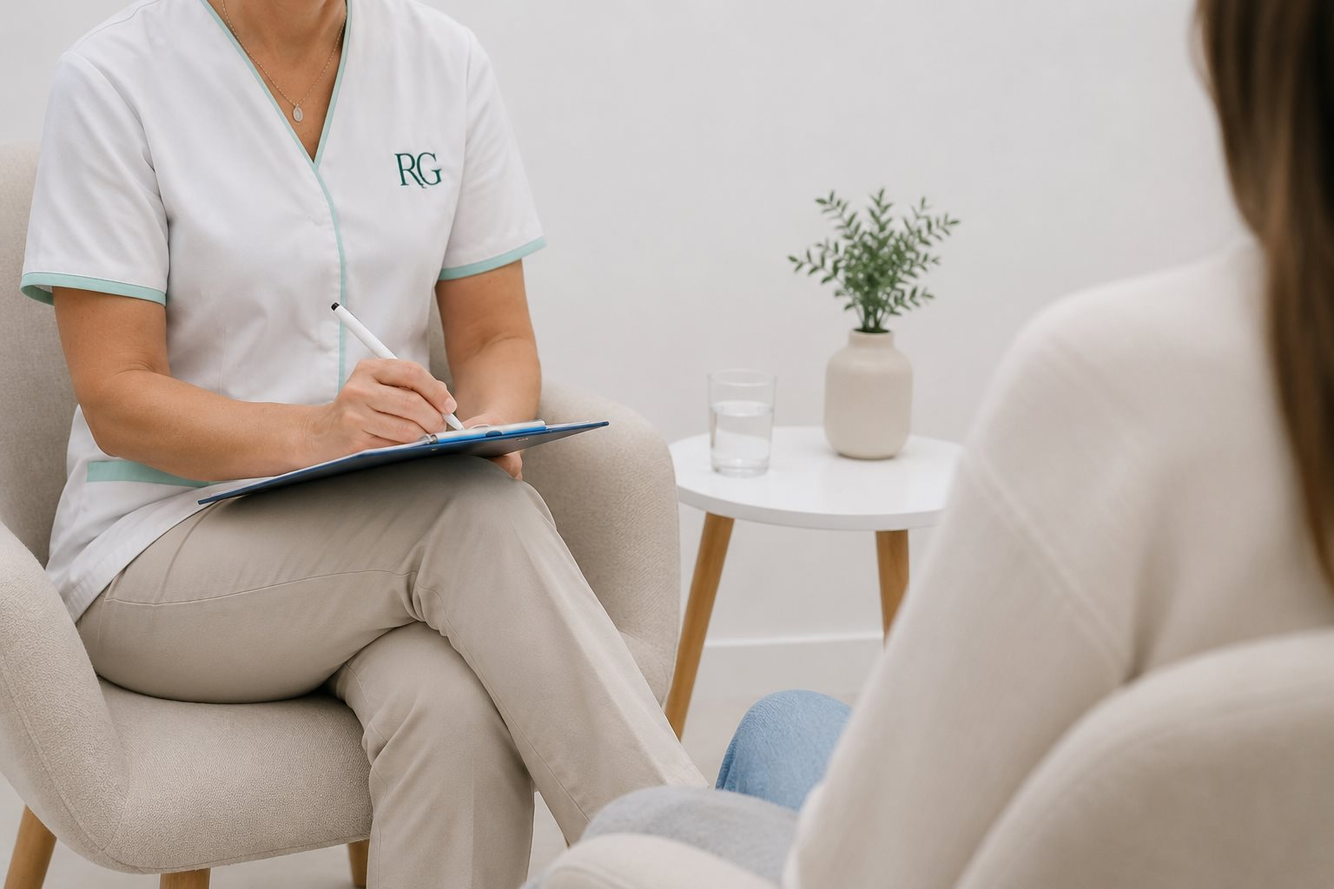
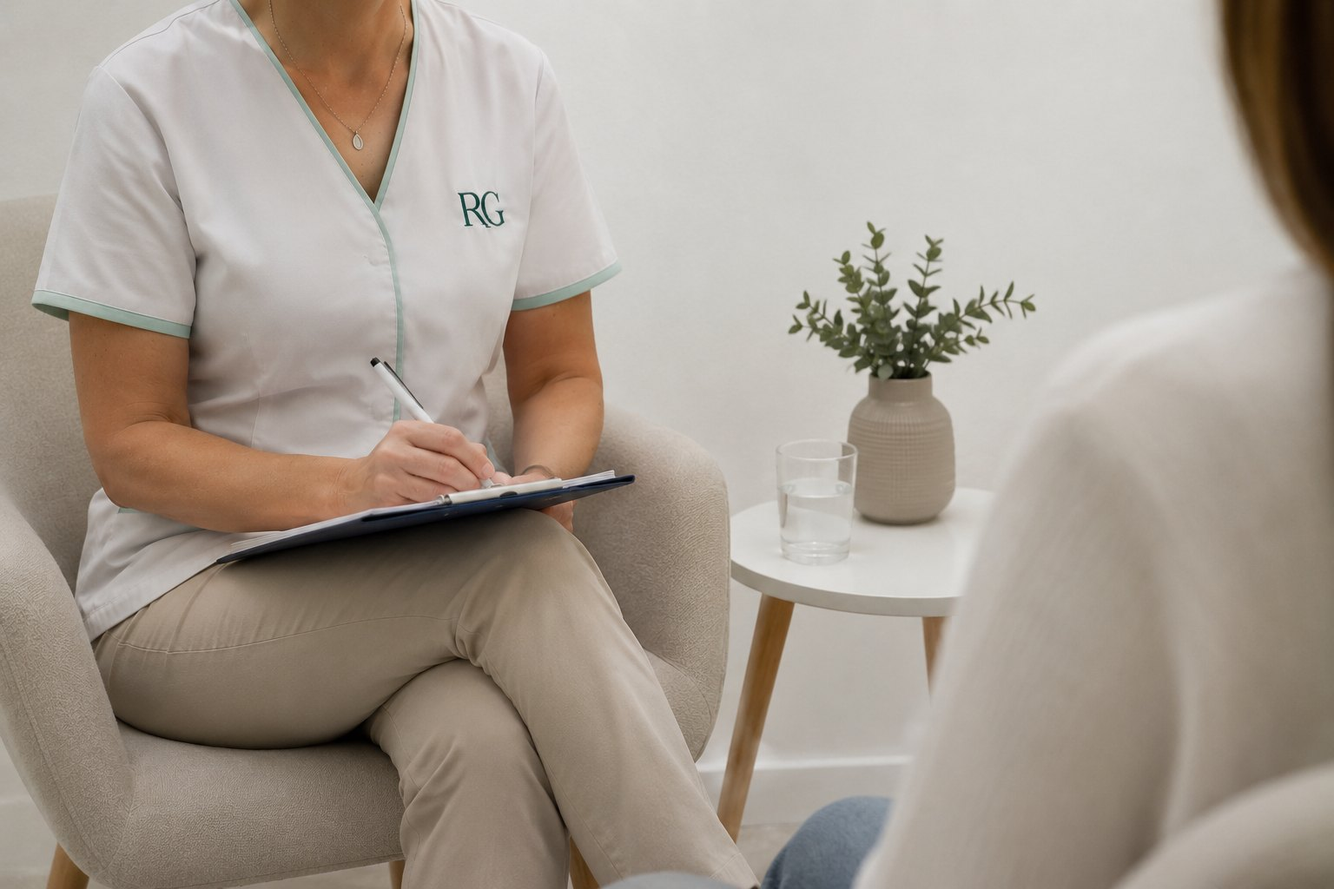
feat(home): 5 profissionais na horizontal na EquipaIntro + hero a preencher a coluna
EquipaIntro: passa a mostrar os 5 membros (antes cortava aos 4) numa unica
linha. Deixa de usar .rg-team-grid, cujas regras !important forcavam 3
colunas abaixo de 1200px e partiam a linha, e ganha grelha propria
(.rg-equipa-home-grid) com container mais largo (1600px). Abaixo de 1150px
mantem a horizontal com scroll lateral e snap, em vez de encolher as
colunas ate ficarem ilegiveis.

Hero: em ecras >=1700px a seccao passa a ter altura propria em vez de a
herdar do aspect-ratio da foto, com degrade de fusao na margem esquerda.

Inclui cache-bust do data.jsx nos HTML e a foto da psicologia actualizada.

diff --git a/website-clinica-rita-guerreiro/project/src/home.jsx b/website-clinica-rita-guerreiro/project/src/home.jsx
@@ -11,7 +11,7 @@ function Hero() {
     <section className="rg-hero-home" style={{ position: 'relative', display: 'flex', alignItems: 'stretch', background: RG.cream, overflow: 'hidden' }}>
 
       {/* Conteúdo principal — coluna própria, nunca sobreposta à foto */}
-      <div className="rg-hero-home-content" style={{ position: 'relative', zIndex: 2, flex: '0 1 560px', minWidth: 0, display: 'flex', alignItems: 'center', background: RG.cream, padding: '128px 44px 72px 64px', boxSizing: 'border-box' }}>
+      <div className="rg-hero-home-content" style={{ position: 'relative', zIndex: 2, flex: '0 1 520px', minWidth: 0, display: 'flex', alignItems: 'center', background: RG.cream, padding: '128px 40px 72px 64px', boxSizing: 'border-box' }}>
         <div style={{ width: '100%', maxWidth: 520, position: 'relative', paddingLeft: 28, boxSizing: 'border-box' }}>
           {/* Linha vertical decorativa */}
           <div aria-hidden="true" style={{
@@ -99,16 +99,23 @@ function Hero() {
       </div>
 
       {/* Foto — coluna própria à direita, nunca por baixo do texto/CTAs.
-          O aspect-ratio nativo da foto (2000/1215) define a altura da secção, por isso
-          a imagem preenche a coluna sem barras de fundo e sem cortar a equipa. */}
-      <div className="rg-hero-home-photo" style={{ position: 'relative', flex: '1 1 0%', minWidth: 0, aspectRatio: '2000 / 1215', background: RG.cream, overflow: 'hidden' }}>
+          Em desktop split a altura vem do min-height da secção (ver mobile.css @1700px):
+          a foto preenche a coluna toda até às bordas, sem faixas de fundo em cima,
+          em baixo ou à direita. O corte de cover é vertical e mínimo, por isso a
+          equipa mantém-se enquadrada. */}
+      <div className="rg-hero-home-photo" style={{ position: 'relative', flex: '1 1 0%', minWidth: 0, background: RG.cream, overflow: 'hidden' }}>
         <img
           src="assets/fotos/equipa-capa.jpg"
           alt="Equipa da Clínica Rita Guerreiro em Loulé"
           className="rg-ken-burns"
-          style={{ width: '100%', height: '100%', objectFit: 'cover', objectPosition: 'center center', display: 'block' }}
+          style={{ width: '100%', height: '100%', objectFit: 'cover', objectPosition: 'center 30%', display: 'block' }}
           loading="eager" decoding="async"
         />
+        {/* Degradê de fusão — funde só a margem esquerda da foto no creme da coluna
+            de texto, para não haver um corte reto entre as duas colunas, mais uma
+            vinheta subtil em baixo (nunca branca, que criava faixa visível).
+            Só em desktop split (≥1700px); escondido quando o hero empilha. */}
+        <div className="rg-hero-home-fade" aria-hidden="true" style={{ position: 'absolute', inset: 0, pointerEvents: 'none', zIndex: 1 }} />
         {/* Eyebrow pill — visível só em mobile via CSS */}
         <span className="rg-hero-home-eyebrow" aria-hidden="true">Centro de Terapias & Bem-Estar</span>
       </div>
@@ -122,10 +129,12 @@ function Hero() {
 // ────────────────────────────────────────────────────────────────────────────
 function EquipaIntro() {
   const { t } = useLang();
-  const members = (t('sobre.team_members') || []).slice(0, 4);
+  const members = t('sobre.team_members') || [];
   return (
     <Section bg={RG.tealWash} pad="lg">
-      <Container>
+      {/* Container mais largo que o resto do site — os 5 cartões têm de caber
+          todos na mesma linha sem ficarem estreitos demais */}
+      <Container maxWidth={1600}>
         <Reveal>
           <div style={{ textAlign: 'center', maxWidth: 620, margin: '0 auto' }}>
             <Eyebrow style={{ marginBottom: 14 }}>{t('equipa_intro.eyebrow')}</Eyebrow>
@@ -136,7 +145,9 @@ function EquipaIntro() {
           </div>
         </Reveal>
 
-        <div className="rg-team-grid" style={{ display: 'grid', gridTemplateColumns: 'repeat(4, minmax(0, 1fr))', gap: 22, marginTop: 56 }}>
+        {/* Grelha própria (não rg-team-grid): a do /sobre quebra para 3/2/1
+            colunas e aqui os 5 têm de ficar sempre na horizontal */}
+        <div className="rg-equipa-home-grid" style={{ marginTop: 56 }}>
           {members.map((m, i) => (
             <Reveal key={i} delay={i * 90} y={36}>
               <a href="/sobre" className="rg-team-card" style={{
@@ -667,90 +678,90 @@ function MeetRita() {
 }
 
 // ────────────────────────────────────────────────────────────────────────────
-// TESTIMONIALS — 1 destaque grande + 2 pequenos
+// TESTIMONIALS — painéis verticais sobre foto de tratamento. Cada painel abre
+// em hover/foco e revela a avaliação; o último painel é a porta para o Google.
 // ────────────────────────────────────────────────────────────────────────────
+const GOOGLE_REVIEWS_URL = 'https://www.google.com/search?q=Clinica+Rita+Guerreiro+Loul%C3%A9';
+
 function Testimonials() {
   const { t } = useLang();
-  const featured = { q: t('testimonials_v2.featured_q'), who: 'Miguel Moreira', what: t('testimonials_v2.featured_what'), initials: 'MM', color: '#C5E8E5' };
-  const others = [
-    { q: t('testimonials_v2.t1_q'), who: 'Irina Mendes Martins', what: t('testimonials_v2.t1_what'), initials: 'IM', color: '#A8D8D4' },
-    { q: t('testimonials_v2.t2_q'), who: 'Mitchelle Sousa', what: t('testimonials_v2.t2_what'), initials: 'MS', color: '#B8D4D2' },
+  const reviews = [
+    { q: t('testimonials_v2.featured_q'), who: 'Miguel Moreira', what: t('testimonials_v2.featured_what') },
+    { q: t('testimonials_v2.t1_q'), who: 'Irina Mendes Martins', what: t('testimonials_v2.t1_what') },
+    { q: t('testimonials_v2.t2_q'), who: 'Mitchelle Sousa', what: t('testimonials_v2.t2_what') },
   ];
-  const Stars = ({ size = 13 }) => (
-    <div style={{ display: 'flex', gap: 3, marginBottom: 14 }}>
+  const Stars = () => (
+    <div className="rg-rev-stars" aria-hidden="true">
       {[...Array(5)].map((_, i) => (
-        <svg key={i} width={size} height={size} viewBox="0 0 12 12" fill="#F5A623"><path d="M6 1l1.4 2.8 3.1.45-2.25 2.2.53 3.1L6 8.15l-2.78 1.4.53-3.1L1.5 4.25l3.1-.45z"/></svg>
+        <svg key={i} width="13" height="13" viewBox="0 0 12 12" fill="#F5A623"><path d="M6 1l1.4 2.8 3.1.45-2.25 2.2.53 3.1L6 8.15l-2.78 1.4.53-3.1L1.5 4.25l3.1-.45z"/></svg>
       ))}
     </div>
   );
   return (
-    <Section bg={RG.creamSoft} pad="lg">
-      <Container>
+    <section className="rg-rev">
+      <img
+        className="rg-rev-photo" src="/assets/fotos/servico-massagem-terapeutica.jpg?v=20260715"
+        alt="" aria-hidden="true" loading="lazy" decoding="async"
+      />
+      <div className="rg-rev-scrim" aria-hidden="true" />
+
+      <div className="rg-rev-inner">
         <Reveal>
-          <div style={{ display: 'flex', alignItems: 'flex-end', justifyContent: 'space-between', gap: 32, flexWrap: 'wrap', marginBottom: 48 }}>
-            <div>
-              <Eyebrow style={{ marginBottom: 12 }}>{t('testimonials.eyebrow')}</Eyebrow>
-              <Heading level="h2" style={{ maxWidth: '22ch' }}>{t('testimonials.heading')}</Heading>
-            </div>
-            <a href="https://www.google.com/search?q=Clinica+Rita+Guerreiro+Loul%C3%A9" target="_blank" rel="noopener noreferrer" style={{
-              display: 'inline-flex', alignItems: 'center', gap: 10, textDecoration: 'none',
-              fontFamily: F_BODY, fontSize: 13, fontWeight: 600, color: RG.tealDark,
-              padding: '10px 0', borderBottom: `1px solid ${RG.tealDark}`,
-            }}>
-              {t('testimonials_v2.read_more')}
-              <svg width="14" height="14" viewBox="0 0 14 14" fill="none"><path d="M2 7 L12 7 M8 3 L12 7 L8 11" stroke="currentColor" strokeWidth="1.6" strokeLinecap="round" strokeLinejoin="round"/></svg>
-            </a>
+          <div className="rg-rev-head">
+            <Eyebrow color={RG.teal} style={{ marginBottom: 14 }}>{t('testimonials.eyebrow')}</Eyebrow>
+            <Heading level="h2" style={{ color: RG.white, maxWidth: '19ch' }}>{t('testimonials.heading')}</Heading>
           </div>
         </Reveal>
 
-        <div style={{ display: 'grid', gridTemplateColumns: '1.4fr 1fr', gap: 24 }} className="rg-testimonials-grid">
-          {/* Destaque grande */}
-          <Reveal delay={80}>
-            <div className="rg-hover-lift" style={{ background: RG.white, borderRadius: 20, padding: 'clamp(32px, 4vw, 48px)', border: `1px solid ${RG.line}`, position: 'relative', height: '100%', display: 'flex', flexDirection: 'column' }}>
-              <div aria-hidden="true" style={{
-                position: 'absolute', top: 24, right: 36,
-                fontFamily: F_DISPLAY, fontSize: 140, lineHeight: 1,
-                color: 'rgba(111,181,176,0.10)', fontWeight: 300, userSelect: 'none', pointerEvents: 'none',
-              }}>&ldquo;</div>
-              <Stars size={15} />
-              <blockquote style={{ fontFamily: F_DISPLAY, fontSize: 'clamp(20px, 1.9vw, 26px)', fontWeight: 300, lineHeight: 1.45, color: RG.ink, letterSpacing: '-0.012em', fontStyle: 'italic', margin: 0, position: 'relative', flex: 1 }}>
-                &ldquo;{featured.q}&rdquo;
-              </blockquote>
-              <div style={{ marginTop: 28, paddingTop: 20, borderTop: `1px solid ${RG.line}`, display: 'flex', alignItems: 'center', gap: 14 }}>
-                <div style={{ width: 48, height: 48, borderRadius: '50%', background: featured.color, display: 'flex', alignItems: 'center', justifyContent: 'center', flexShrink: 0 }}>
-                  <span style={{ fontFamily: F_BODY, fontSize: 14, fontWeight: 700, color: RG.tealDark }}>{featured.initials}</span>
-                </div>
-                <div>
-                  <div style={{ fontFamily: F_BODY, fontSize: 14, fontWeight: 600, color: RG.ink }}>{featured.who}</div>
-                  <div style={{ fontFamily: F_BODY, fontSize: 11.5, letterSpacing: '0.08em', textTransform: 'uppercase', color: RG.muted, marginTop: 3 }}>{featured.what}</div>
-                </div>
-              </div>
-            </div>
-          </Reveal>
-
-          {/* Coluna direita: 2 testemunhos empilhados */}
-          <div style={{ display: 'grid', gridTemplateRows: '1fr 1fr', gap: 24 }}>
-            {others.map((tt, i) => (
-              <Reveal key={i} delay={140 + i * 80}>
-                <div className="rg-hover-lift" style={{ background: RG.white, borderRadius: 16, padding: '24px 22px', border: `1px solid ${RG.line}`, height: '100%', display: 'flex', flexDirection: 'column' }}>
-                  <Stars />
-                  <p style={{ fontFamily: F_DISPLAY, fontSize: 16, fontWeight: 300, lineHeight: 1.5, color: RG.ink, letterSpacing: '-0.005em', fontStyle: 'italic', margin: 0, flex: 1 }}>&ldquo;{tt.q}&rdquo;</p>
-                  <div style={{ marginTop: 18, paddingTop: 14, borderTop: `1px solid ${RG.line}`, display: 'flex', alignItems: 'center', gap: 12 }}>
-                    <div style={{ width: 34, height: 34, borderRadius: '50%', background: tt.color, display: 'flex', alignItems: 'center', justifyContent: 'center', flexShrink: 0 }}>
-                      <span style={{ fontFamily: F_BODY, fontSize: 11, fontWeight: 700, color: RG.tealDark }}>{tt.initials}</span>
-                    </div>
-                    <div>
-                      <div style={{ fontFamily: F_BODY, fontSize: 13, fontWeight: 600, color: RG.ink }}>{tt.who}</div>
-                      <div style={{ fontFamily: F_BODY, fontSize: 10.5, letterSpacing: '0.08em', textTransform: 'uppercase', color: RG.muted, marginTop: 2 }}>{tt.what}</div>
-                    </div>
+        <Reveal delay={120}>
+          <div className="rg-rev-rail">
+            {reviews.map((r, i) => (
+              <a
+                key={i}
+                className={'rg-rev-panel' + (i === 0 ? ' rg-rev-panel--open' : '')}
+                href={GOOGLE_REVIEWS_URL} target="_blank" rel="noopener noreferrer"
+              >
+                <span className="rg-rev-mark" aria-hidden="true">&rdquo;</span>
+                <div className="rg-rev-body">
+                  <div className="rg-rev-body-in">
+                    <Stars />
+                    <blockquote className="rg-rev-quote">&ldquo;{r.q}&rdquo;</blockquote>
                   </div>
                 </div>
-              </Reveal>
+                <div className="rg-rev-meta">
+                  <span className="rg-rev-who">{r.who}</span>
+                  <span className="rg-rev-what">{r.what}</span>
+                </div>
+              </a>
             ))}
+
+            {/* Porta para o Google — mesma mecânica dos painéis das avaliações */}
+            <a className="rg-rev-panel rg-rev-panel--google" href={GOOGLE_REVIEWS_URL} target="_blank" rel="noopener noreferrer">
+              <span className="rg-rev-g" aria-hidden="true">
+                <svg width="26" height="26" viewBox="0 0 24 24">
+                  <path fill="#4285F4" d="M23.5 12.27c0-.85-.08-1.67-.22-2.45H12v4.64h6.45a5.52 5.52 0 0 1-2.39 3.62v3.01h3.87c2.26-2.09 3.57-5.17 3.57-8.82z"/>
+                  <path fill="#34A853" d="M12 24c3.24 0 5.96-1.08 7.94-2.91l-3.87-3.01c-1.08.72-2.45 1.15-4.07 1.15-3.13 0-5.78-2.11-6.73-4.96H1.28v3.09A12 12 0 0 0 12 24z"/>
+                  <path fill="#FBBC05" d="M5.27 14.27a7.2 7.2 0 0 1 0-4.55V6.63H1.28a12 12 0 0 0 0 10.74l3.99-3.1z"/>
+                  <path fill="#EA4335" d="M12 4.75c1.77 0 3.35.61 4.6 1.8l3.43-3.43C17.95 1.19 15.24 0 12 0A12 12 0 0 0 1.28 6.63l3.99 3.09C6.22 6.87 8.87 4.75 12 4.75z"/>
+                </svg>
+              </span>
+              <div className="rg-rev-body">
+                <div className="rg-rev-body-in">
+                  <p className="rg-rev-gtext">{t('testimonials_v2.google_body')}</p>
+                </div>
+              </div>
+              <div className="rg-rev-meta">
+                <span className="rg-rev-who rg-rev-who--cta">
+                  {t('testimonials_v2.read_more')}
+                  <svg className="rg-rev-arrow" width="15" height="15" viewBox="0 0 14 14" fill="none" aria-hidden="true"><path d="M2 7 L12 7 M8 3 L12 7 L8 11" stroke="currentColor" strokeWidth="1.6" strokeLinecap="round" strokeLinejoin="round"/></svg>
+                </span>
+                <span className="rg-rev-what">{t('testimonials_v2.google_label')}</span>
+              </div>
+            </a>
           </div>
-        </div>
-      </Container>
-    </Section>
+        </Reveal>
+      </div>
+    </section>
   );
 }
 

diff --git a/website-clinica-rita-guerreiro/project/src/mobile.css b/website-clinica-rita-guerreiro/project/src/mobile.css
@@ -185,10 +185,33 @@
   .rg-scroll-indicator { display: none !important; }
 }
 
-/* Ecrãs muito largos: a coluna de texto cresce para a foto não ficar
-   desproporcionalmente alta (a altura vem do aspect-ratio da foto) */
+/* Ecrãs muito largos: a secção passa a ter altura própria (viewport menos o
+   header fixo) em vez de a herdar do aspect-ratio da foto. Assim a foto enche a
+   coluna toda — sem faixa de fundo em cima, em baixo ou à direita — e fica
+   maior. A coluna de texto encolhe para 31% para dar mais largura à foto; o
+   texto continua confortável (max-width 520px + padding). */
 @media (min-width: 1700px) {
-  .rg-hero-home-content { flex: 0 1 40% !important; }
+  .rg-hero-home {
+    min-height: clamp(640px, calc(100vh - 88px), 900px);
+  }
+  .rg-hero-home-content { flex: 0 1 31% !important; }
+  .rg-hero-home-photo { align-self: stretch; }
+  .rg-hero-home-photo img { height: 100% !important; }
+}
+
+/* Degradê de fusão da foto do hero — só no layout split (≥1700px), onde a foto
+   encosta à coluna de texto creme. À esquerda a transparência chega aos 0
+   depressa (14% da largura) para nunca velar as pessoas das pontas. Em baixo é
+   uma vinheta escura muito ténue, para dar profundidade sem a faixa branca que
+   parecia espaço vazio. */
+.rg-hero-home-fade { display: none; }
+@media (min-width: 1700px) {
+  .rg-hero-home-fade {
+    display: block;
+    background:
+      linear-gradient(to right, rgba(255, 255, 255, 1) 0%, rgba(255, 255, 255, 0.7) 4%, rgba(255, 255, 255, 0) 14%),
+      linear-gradient(to bottom, rgba(20, 20, 18, 0) 62%, rgba(20, 20, 18, 0.16) 100%);
+  }
 }
 
 /* 769–1699px: a coluna da direita não é larga que chegue para a foto da equipa

diff --git a/website-clinica-rita-guerreiro/project/index.html b/website-clinica-rita-guerreiro/project/index.html
@@ -62,9 +62,9 @@
 <link rel="preconnect" href="https://fonts.googleapis.com">
 <link rel="preconnect" href="https://fonts.gstatic.com" crossorigin>
 <link href="https://fonts.googleapis.com/css2?family=Open+Sans:wght@300;400;500;600;700&family=DM+Sans:wght@300;400;500;600&family=JetBrains+Mono:wght@400;500;600&display=swap" rel="stylesheet">
-<link rel="stylesheet" href="/src/styles.css?v=20260714">
+<link rel="stylesheet" href="/src/styles.css?v=20260715i">
 <link rel="stylesheet" href="/src/premium.css?v=20260715c">
-<link rel="stylesheet" href="/src/mobile.css?v=20260715d">
+<link rel="stylesheet" href="/src/mobile.css?v=20260715f">
 </head>
 <body>
 <div id="root"></div>
@@ -73,10 +73,10 @@
 <script src="https://unpkg.com/@babel/standalone@7.29.0/babel.min.js" integrity="sha384-m08KidiNqLdpJqLq95G/LEi8Qvjl/xUYll3QILypMoQ65QorJ9Lvtp2RXYGBFj1y" crossorigin="anonymous"></script>
 <script type="text/babel" src="/src/tokens.jsx?v=20260715f"></script>
 <script type="text/babel" src="/src/logo.jsx?v=20260713b"></script>
-<script type="text/babel" src="/src/data.jsx?v=20260715c"></script>
+<script type="text/babel" src="/src/data.jsx?v=20260715d"></script>
 <script type="text/babel" src="/src/data_i18n.jsx?v=20260715b"></script>
 <script type="text/babel" src="/src/ui.jsx?v=20260714d"></script>
-<script type="text/babel" src="/src/home.jsx?v=20260715h"></script>
+<script type="text/babel" src="/src/home.jsx?v=20260715k"></script>
 <script type="text/babel">
 function App() {
   return (<>

diff --git a/website-clinica-rita-guerreiro/project/src/styles.css b/website-clinica-rita-guerreiro/project/src/styles.css
@@ -985,6 +985,32 @@ html, body { overflow-x: clip !important; max-width: 100% !important; }
   .rg-team-grid > *:nth-child(even) .rg-team-card { margin-top: 28px; }
 }
 
+/* Equipa (home): os 5 profissionais ficam sempre numa linha horizontal.
+   Grelha separada da .rg-team-grid do /sobre, que quebra para 3/2/1 colunas. */
+.rg-equipa-home-grid {
+  display: grid;
+  grid-template-columns: repeat(5, minmax(0, 1fr));
+  gap: 20px;
+}
+
+/* Abaixo de ~1150px cinco colunas fluidas ficariam estreitas demais para a
+   foto e o nome respirarem: mantém-se a horizontal, mas com scroll lateral. */
+@media (max-width: 1150px) {
+  .rg-equipa-home-grid {
+    grid-template-columns: none;
+    grid-auto-flow: column;
+    grid-auto-columns: minmax(190px, 1fr);
+    overflow-x: auto;
+    scroll-snap-type: x proximity;
+    -webkit-overflow-scrolling: touch;
+    /* espaço para a sombra dos cartões não ficar cortada pelo overflow */
+    padding: 4px 4px 12px;
+    margin-left: -4px;
+    margin-right: -4px;
+  }
+  .rg-equipa-home-grid > * { scroll-snap-align: start; }
+}
+
 /* Espaço: zoom suave + legenda com scrim que aparece no hover */
 .rg-espaco-item img { transition: transform 800ms cubic-bezier(.2,.7,.2,1); }
 .rg-espaco-item:hover img { transform: scale(1.05); }

diff --git a/website-clinica-rita-guerreiro/project/contactos.html b/website-clinica-rita-guerreiro/project/contactos.html
@@ -29,7 +29,7 @@
 <script src="https://unpkg.com/@babel/standalone@7.29.0/babel.min.js" integrity="sha384-m08KidiNqLdpJqLq95G/LEi8Qvjl/xUYll3QILypMoQ65QorJ9Lvtp2RXYGBFj1y" crossorigin="anonymous"></script>
 <script type="text/babel" src="/src/tokens.jsx?v=20260715c"></script>
 <script type="text/babel" src="/src/logo.jsx?v=20260713b"></script>
-<script type="text/babel" src="/src/data.jsx?v=20260715b"></script>
+<script type="text/babel" src="/src/data.jsx?v=20260715d"></script>
 <script type="text/babel" src="/src/data_i18n.jsx?v=20260715b"></script>
 <script type="text/babel" src="/src/ui.jsx?v=20260714d"></script>
 <script type="text/babel" src="/src/pages.jsx?v=20260715c"></script>

diff --git a/website-clinica-rita-guerreiro/project/servico-acupuntura.html b/website-clinica-rita-guerreiro/project/servico-acupuntura.html
@@ -29,7 +29,7 @@
 <script src="https://unpkg.com/@babel/standalone@7.29.0/babel.min.js" integrity="sha384-m08KidiNqLdpJqLq95G/LEi8Qvjl/xUYll3QILypMoQ65QorJ9Lvtp2RXYGBFj1y" crossorigin="anonymous"></script>
 <script type="text/babel" src="/src/tokens.jsx?v=20260715c"></script>
 <script type="text/babel" src="/src/logo.jsx?v=20260713b"></script>
-<script type="text/babel" src="/src/data.jsx?v=20260715b"></script>
+<script type="text/babel" src="/src/data.jsx?v=20260715d"></script>
 <script type="text/babel" src="/src/data_i18n.jsx?v=20260715b"></script>
 <script type="text/babel" src="/src/ui.jsx?v=20260714d"></script>
 <script type="text/babel" src="/src/pages.jsx?v=20260715c"></script>

diff --git a/website-clinica-rita-guerreiro/project/servico-depilacao-laser.html b/website-clinica-rita-guerreiro/project/servico-depilacao-laser.html
@@ -29,7 +29,7 @@
 <script src="https://unpkg.com/@babel/standalone@7.29.0/babel.min.js" integrity="sha384-m08KidiNqLdpJqLq95G/LEi8Qvjl/xUYll3QILypMoQ65QorJ9Lvtp2RXYGBFj1y" crossorigin="anonymous"></script>
 <script type="text/babel" src="/src/tokens.jsx?v=20260715c"></script>
 <script type="text/babel" src="/src/logo.jsx?v=20260713b"></script>
-<script type="text/babel" src="/src/data.jsx?v=20260715b"></script>
+<script type="text/babel" src="/src/data.jsx?v=20260715d"></script>
 <script type="text/babel" src="/src/data_i18n.jsx?v=20260715b"></script>
 <script type="text/babel" src="/src/ui.jsx?v=20260714d"></script>
 <script type="text/babel" src="/src/pages.jsx?v=20260715c"></script>

diff --git a/website-clinica-rita-guerreiro/project/servico-drenagem-linfatica.html b/website-clinica-rita-guerreiro/project/servico-drenagem-linfatica.html
@@ -29,7 +29,7 @@
 <script src="https://unpkg.com/@babel/standalone@7.29.0/babel.min.js" integrity="sha384-m08KidiNqLdpJqLq95G/LEi8Qvjl/xUYll3QILypMoQ65QorJ9Lvtp2RXYGBFj1y" crossorigin="anonymous"></script>
 <script type="text/babel" src="/src/tokens.jsx?v=20260715c"></script>
 <script type="text/babel" src="/src/logo.jsx?v=20260713b"></script>
-<script type="text/babel" src="/src/data.jsx?v=20260715b"></script>
+<script type="text/babel" src="/src/data.jsx?v=20260715d"></script>
 <script type="text/babel" src="/src/data_i18n.jsx?v=20260715b"></script>
 <script type="text/babel" src="/src/ui.jsx?v=20260714d"></script>
 <script type="text/babel" src="/src/pages.jsx?v=20260715c"></script>

diff --git a/website-clinica-rita-guerreiro/project/servico-estetica.html b/website-clinica-rita-guerreiro/project/servico-estetica.html
@@ -29,7 +29,7 @@
 <script src="https://unpkg.com/@babel/standalone@7.29.0/babel.min.js" integrity="sha384-m08KidiNqLdpJqLq95G/LEi8Qvjl/xUYll3QILypMoQ65QorJ9Lvtp2RXYGBFj1y" crossorigin="anonymous"></script>
 <script type="text/babel" src="/src/tokens.jsx?v=20260715c"></script>
 <script type="text/babel" src="/src/logo.jsx?v=20260713b"></script>
-<script type="text/babel" src="/src/data.jsx?v=20260715b"></script>
+<script type="text/babel" src="/src/data.jsx?v=20260715d"></script>
 <script type="text/babel" src="/src/data_i18n.jsx?v=20260715b"></script>
 <script type="text/babel" src="/src/ui.jsx?v=20260714d"></script>
 <script type="text/babel" src="/src/pages.jsx?v=20260715c"></script>

diff --git a/website-clinica-rita-guerreiro/project/servico-facial.html b/website-clinica-rita-guerreiro/project/servico-facial.html
@@ -29,7 +29,7 @@
 <script src="https://unpkg.com/@babel/standalone@7.29.0/babel.min.js" integrity="sha384-m08KidiNqLdpJqLq95G/LEi8Qvjl/xUYll3QILypMoQ65QorJ9Lvtp2RXYGBFj1y" crossorigin="anonymous"></script>
 <script type="text/babel" src="/src/tokens.jsx?v=20260715c"></script>
 <script type="text/babel" src="/src/logo.jsx?v=20260713b"></script>
-<script type="text/babel" src="/src/data.jsx?v=20260715b"></script>
+<script type="text/babel" src="/src/data.jsx?v=20260715d"></script>
 <script type="text/babel" src="/src/data_i18n.jsx?v=20260715b"></script>
 <script type="text/babel" src="/src/ui.jsx?v=20260714d"></script>
 <script type="text/babel" src="/src/pages.jsx?v=20260715c"></script>

diff --git a/website-clinica-rita-guerreiro/project/servico-fisioterapia-atm.html b/website-clinica-rita-guerreiro/project/servico-fisioterapia-atm.html
@@ -29,7 +29,7 @@
 <script src="https://unpkg.com/@babel/standalone@7.29.0/babel.min.js" integrity="sha384-m08KidiNqLdpJqLq95G/LEi8Qvjl/xUYll3QILypMoQ65QorJ9Lvtp2RXYGBFj1y" crossorigin="anonymous"></script>
 <script type="text/babel" src="/src/tokens.jsx?v=20260715c"></script>
 <script type="text/babel" src="/src/logo.jsx?v=20260713b"></script>
-<script type="text/babel" src="/src/data.jsx?v=20260715b"></script>
+<script type="text/babel" src="/src/data.jsx?v=20260715d"></script>
 <script type="text/babel" src="/src/data_i18n.jsx?v=20260715b"></script>
 <script type="text/babel" src="/src/ui.jsx?v=20260714d"></script>
 <script type="text/babel" src="/src/pages.jsx?v=20260715c"></script>

diff --git a/website-clinica-rita-guerreiro/project/servico-fisioterapia-geral.html b/website-clinica-rita-guerreiro/project/servico-fisioterapia-geral.html
@@ -29,7 +29,7 @@
 <script src="https://unpkg.com/@babel/standalone@7.29.0/babel.min.js" integrity="sha384-m08KidiNqLdpJqLq95G/LEi8Qvjl/xUYll3QILypMoQ65QorJ9Lvtp2RXYGBFj1y" crossorigin="anonymous"></script>
 <script type="text/babel" src="/src/tokens.jsx?v=20260715c"></script>
 <script type="text/babel" src="/src/logo.jsx?v=20260713b"></script>
-<script type="text/babel" src="/src/data.jsx?v=20260715b"></script>
+<script type="text/babel" src="/src/data.jsx?v=20260715d"></script>
 <script type="text/babel" src="/src/data_i18n.jsx?v=20260715b"></script>
 <script type="text/babel" src="/src/ui.jsx?v=20260714d"></script>
 <script type="text/babel" src="/src/pages.jsx?v=20260715c"></script>
